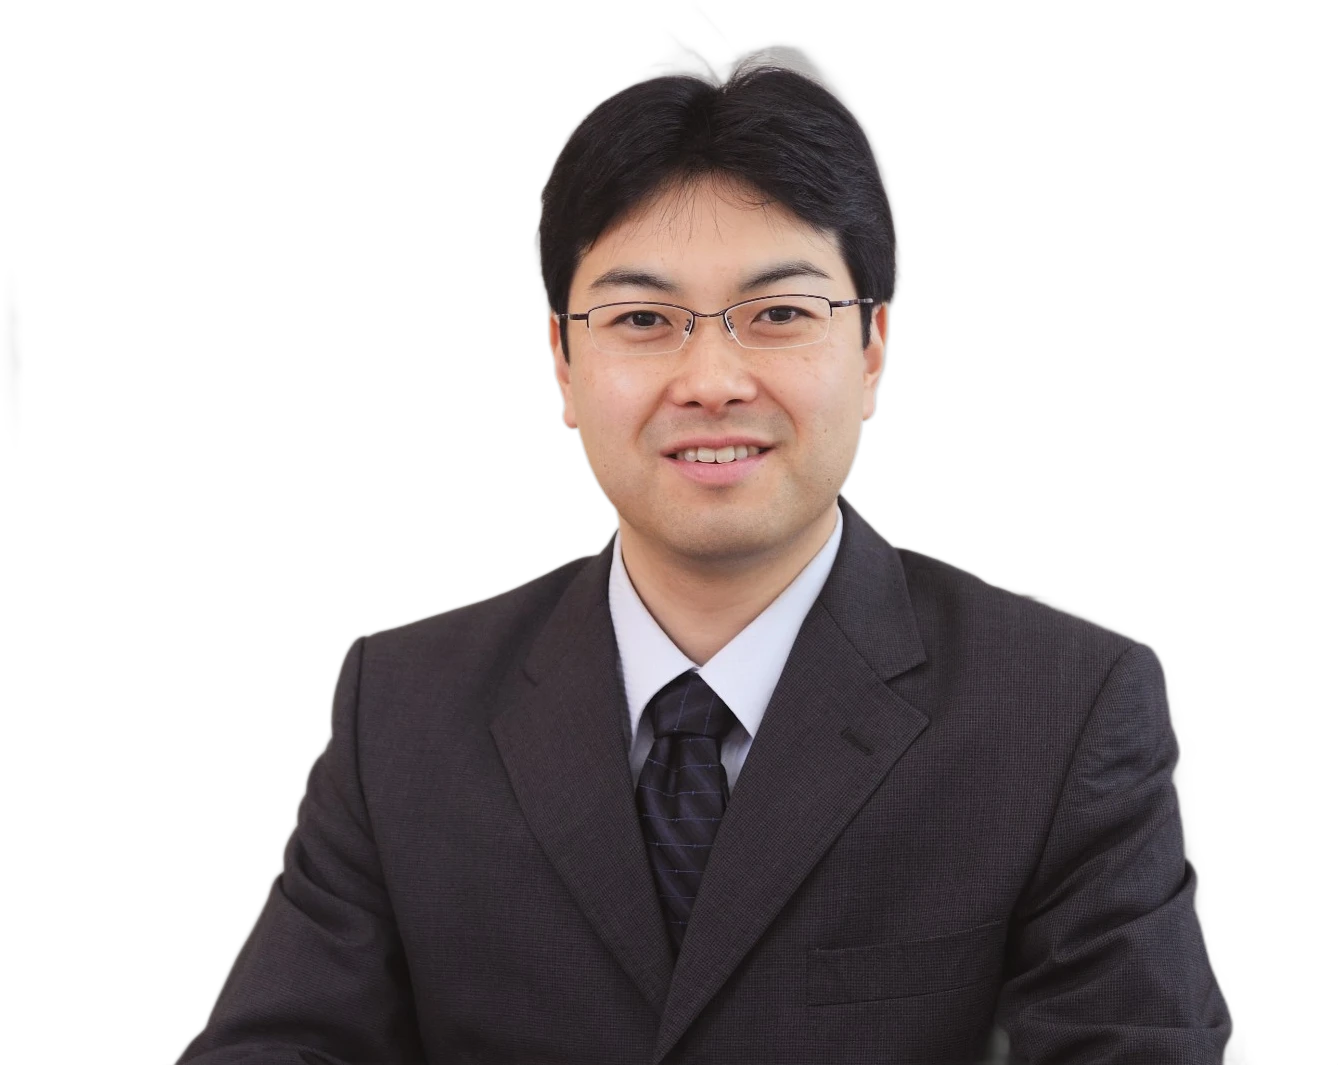
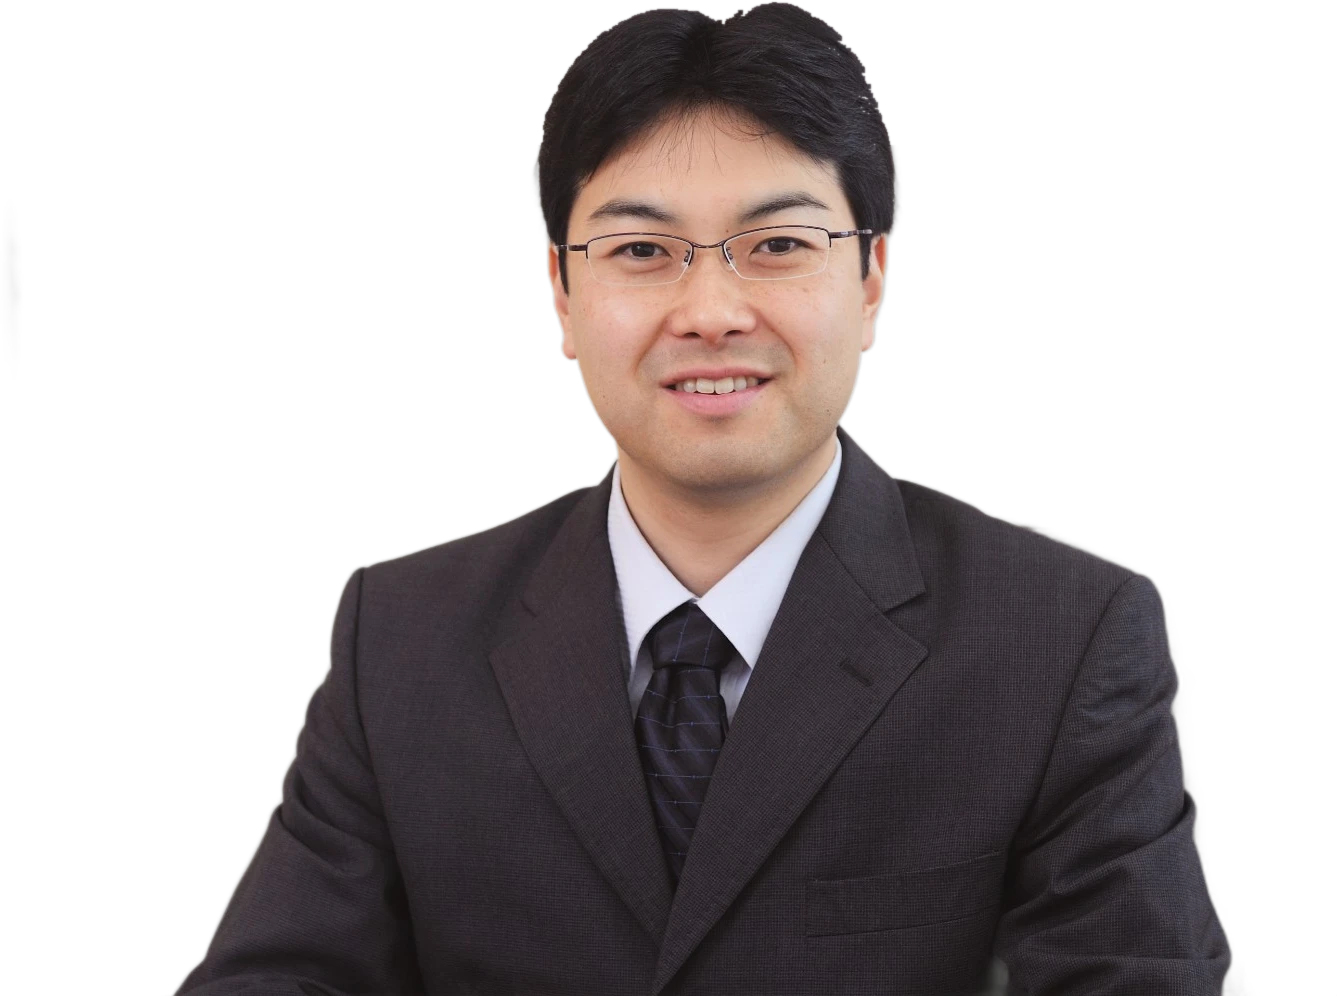
007：院長切り抜きの頭頂部の浮き毛・白いにじみを除去
Claude-Session: https://claude.ai/code/session_01PqN1TRnnMqSdtr1dScAdhW

diff --git a/007/index.html b/007/index.html
@@ -88,7 +88,7 @@
           </div>
         </div>
         <div class="fv__person">
-          <img class="fv__director" src="assets/img/director-cut.webp" alt="院長 沼田真一" width="1338" height="1065">
+          <img class="fv__director" src="assets/img/director-cut.webp" alt="院長 沼田真一" width="1337" height="996">
           <p class="fv__name"><span>院長</span>沼田 真一</p>
         </div>
       </div>
